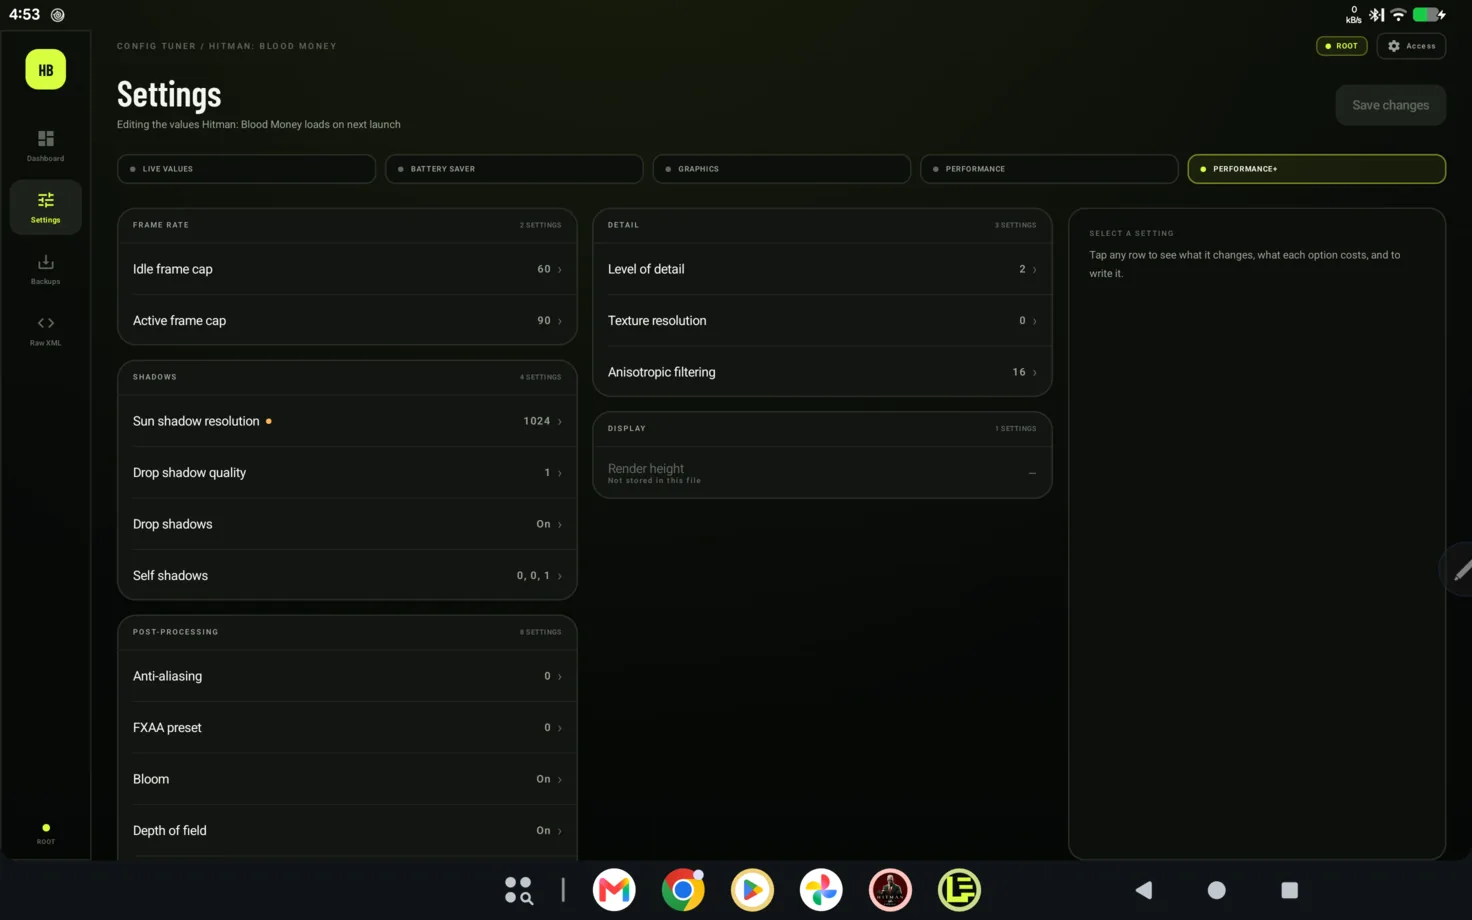
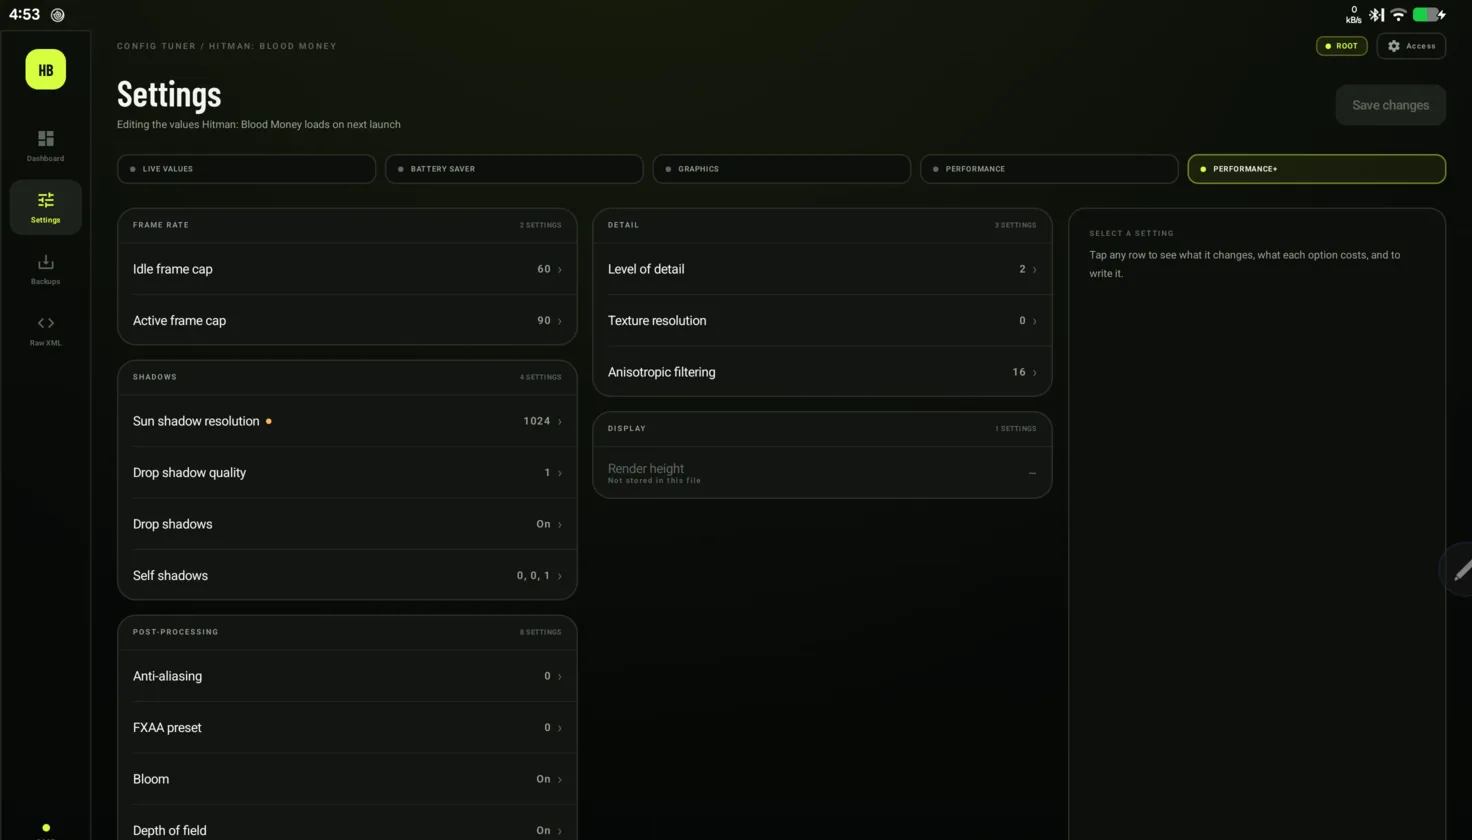
fix(website): crop taskbar from remaining screenshots
- crop editor, presets and resolution shots to 1472x840
- refresh WebP assets
- update intrinsic dimensions

diff --git a/docs/website/index.html b/docs/website/index.html
@@ -341,15 +341,15 @@
             <figcaption>Title picker with installed titles first; uninstalled supported titles sit under “Also supported”.</figcaption></figure>
         </div>
         <div class="shot-panel" id="panel-editor" role="tabpanel" aria-labelledby="tab-editor" tabindex="0" hidden>
-          <figure><picture><source srcset="assets/shots/editor.webp" type="image/webp"><img src="assets/shots/editor.png" width="1472" height="920" loading="lazy" alt="GRID Autosport guided editor with grouped setting cards."></picture>
+          <figure><picture><source srcset="assets/shots/editor.webp" type="image/webp"><img src="assets/shots/editor.png" width="1472" height="840" loading="lazy" alt="GRID Autosport guided editor with grouped setting cards."></picture>
             <figcaption>Guided editor: grouped cards, plain-language labels, the stored key shown per row.</figcaption></figure>
         </div>
         <div class="shot-panel" id="panel-presets" role="tabpanel" aria-labelledby="tab-presets" tabindex="0" hidden>
-          <figure><picture><source srcset="assets/shots/presets.webp" type="image/webp"><img src="assets/shots/presets.png" width="1472" height="920" loading="lazy" alt="Hitman preset tabs, each holding its own block of settings."></picture>
+          <figure><picture><source srcset="assets/shots/presets.webp" type="image/webp"><img src="assets/shots/presets.png" width="1472" height="840" loading="lazy" alt="Hitman preset tabs, each holding its own block of settings."></picture>
             <figcaption>Preset families as tabs — Hitman's per-preset blocks stay separate rather than flattening.</figcaption></figure>
         </div>
         <div class="shot-panel" id="panel-resolution" role="tabpanel" aria-labelledby="tab-resolution" tabindex="0" hidden>
-          <figure><picture><source srcset="assets/shots/resolution.webp" type="image/webp"><img src="assets/shots/resolution.png" width="1472" height="920" loading="lazy" alt="Saints Row resolution and render scale controls."></picture>
+          <figure><picture><source srcset="assets/shots/resolution.webp" type="image/webp"><img src="assets/shots/resolution.png" width="1472" height="840" loading="lazy" alt="Saints Row resolution and render scale controls."></picture>
             <figcaption>Resolution and render scale use common-value lists, not free-form steppers.</figcaption></figure>
         </div>
       </div>
